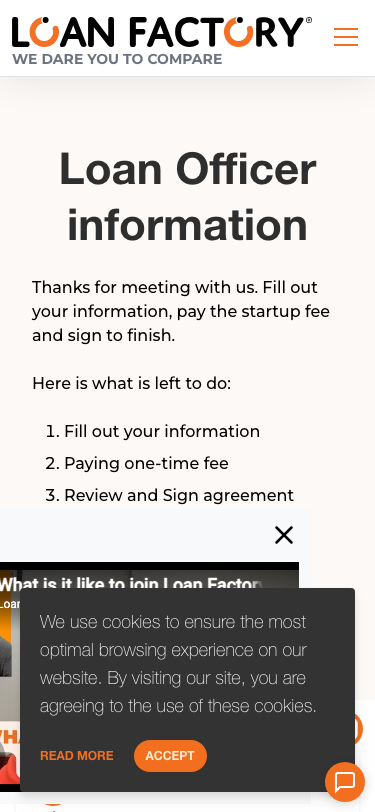
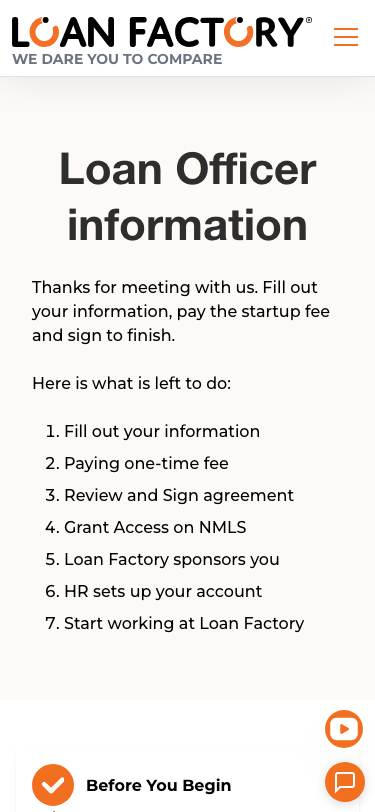
docs(moso-decouple): P4 S2 lf-homepage adapter handoff + screenshots [agentflow-0gwad.5.5]

Changed region(s): [[0.0, 0.6466, 0.968, 1.0]]

diff --git a/docs/handoff/moso-decouple/P4-S2.md b/docs/handoff/moso-decouple/P4-S2.md
@@ -3,7 +3,7 @@
 Bead `agentflow-0gwad.5.5` (child of `agentflow-0gwad.5`). Plan: [P4-PLAN.md](P4-PLAN.md), slice S2.
 Written 05/11/2026 by session `460363a7` (agent `p4-s2`). Status: **PR open, not merged, not deployed. No production.**
 
-- PR: LoanFactory-Inc/lf-homepage — see "PR" below for the link and head sha.
+- PR: https://github.com/LoanFactory-Inc/lf-homepage/pull/2702 (draft, "do not merge until Bao reviews screenshots"), head `5f32124c`.
 - Branch: `feat/p4-s2-recruit-onboarding-adapter` from `origin/master` 846b9940.
 - Worktree: `lf-homepage-worktrees/p4-s2-adapter`.
 
@@ -79,4 +79,36 @@ All are in `docs/handoff/moso-decouple/p4-s2-shots/`, taken locally with `next d
 - Both use the same fictional Loan Officer (Maria Example), with the 1-1 done and the fee due. Staging recruit-be cannot be called yet, because the API key does not exist.
 - The page texts in AFTER are visibly tagged `[Recruit page text]` (mock), so the data source can be seen.
 
-(The file list is filled in below once taken.)
+Site popups (the cookie notice and the video teaser) cover the form in the same way in both modes, so they are hidden for the shots. `calls.json` records the network per shot:
+- BEFORE: 2 packs `getRegisterLoanOfficer` reads, 0 portal calls (dev StrictMode mounts twice).
+- AFTER: 0 packs reads, and portal calls `profile`, `fee-config` and `page-texts`.
+
+| File | What it shows |
+|---|---|
+| `before-desktop-1-top.png`, `after-desktop-1-top.png` | Intro (post-call copy, since the 1-1 is done). Identical |
+| `before-desktop-2-step.png`, `after-desktop-2-step.png` | The "Paying one-time fee" step and its step rail |
+| `before-mobile-1-top.png`, `after-mobile-1-top.png` | Same as the desktop intro, at 375 |
+| `before-mobile-2-step.png`, `after-mobile-2-step.png` | Same as the desktop pay step, at 375 |
+| `calls.json` | Which backend each shot called |
+
+**What the pay-step shots show:**
+- **AFTER:** Recruit's fee text (tagged mock) and the PayPal buttons, loaded with the client id from Recruit's fee config.
+- **BEFORE, in local dev:** no PayPal button and an empty fee text.
+  - The fee text is empty because packs staging's `lo_recruiting_startup_fee_desc` came back empty.
+  - The button is missing because the PayPal SDK logged `zoid destroyed all components`. That is likely React StrictMode's double mount in `next dev`. The packs-path PayPal code is not changed by this PR, but I did not re-run origin/master locally to compare.
+  - In AFTER, the gate renders the button only once the SDK has resolved, which avoids this.
+
+Not shown: a paid or signed state, or a live payment. PayPal was not clicked. The payment and recording paths are covered by `PayingOneTimePortal.test.tsx`.
+
+## Review
+
+An independent code review (a code-reviewer agent given the diff only) found 0 CRITICAL and 3 HIGH. All 3 HIGH are fixed:
+1. Identity fields were editable on `?t=`.
+2. A payment could be captured but not recorded, silently.
+3. The PayPal client-id reset could race the button.
+
+Of the MEDIUM findings:
+- **Fixed:** non-object 200 bodies now answer 502, and MOSO's PayPal config is restored on unmount.
+- **Not changed:** server-side sanitising of page texts, because recruit-be already cleans them with a jsoup allowlist.
+
+The LOW findings (Referer, CORS `*`, the XFF topology) are noted in the open questions; they behave the same as `recruit-intake` and `?key=` today.
